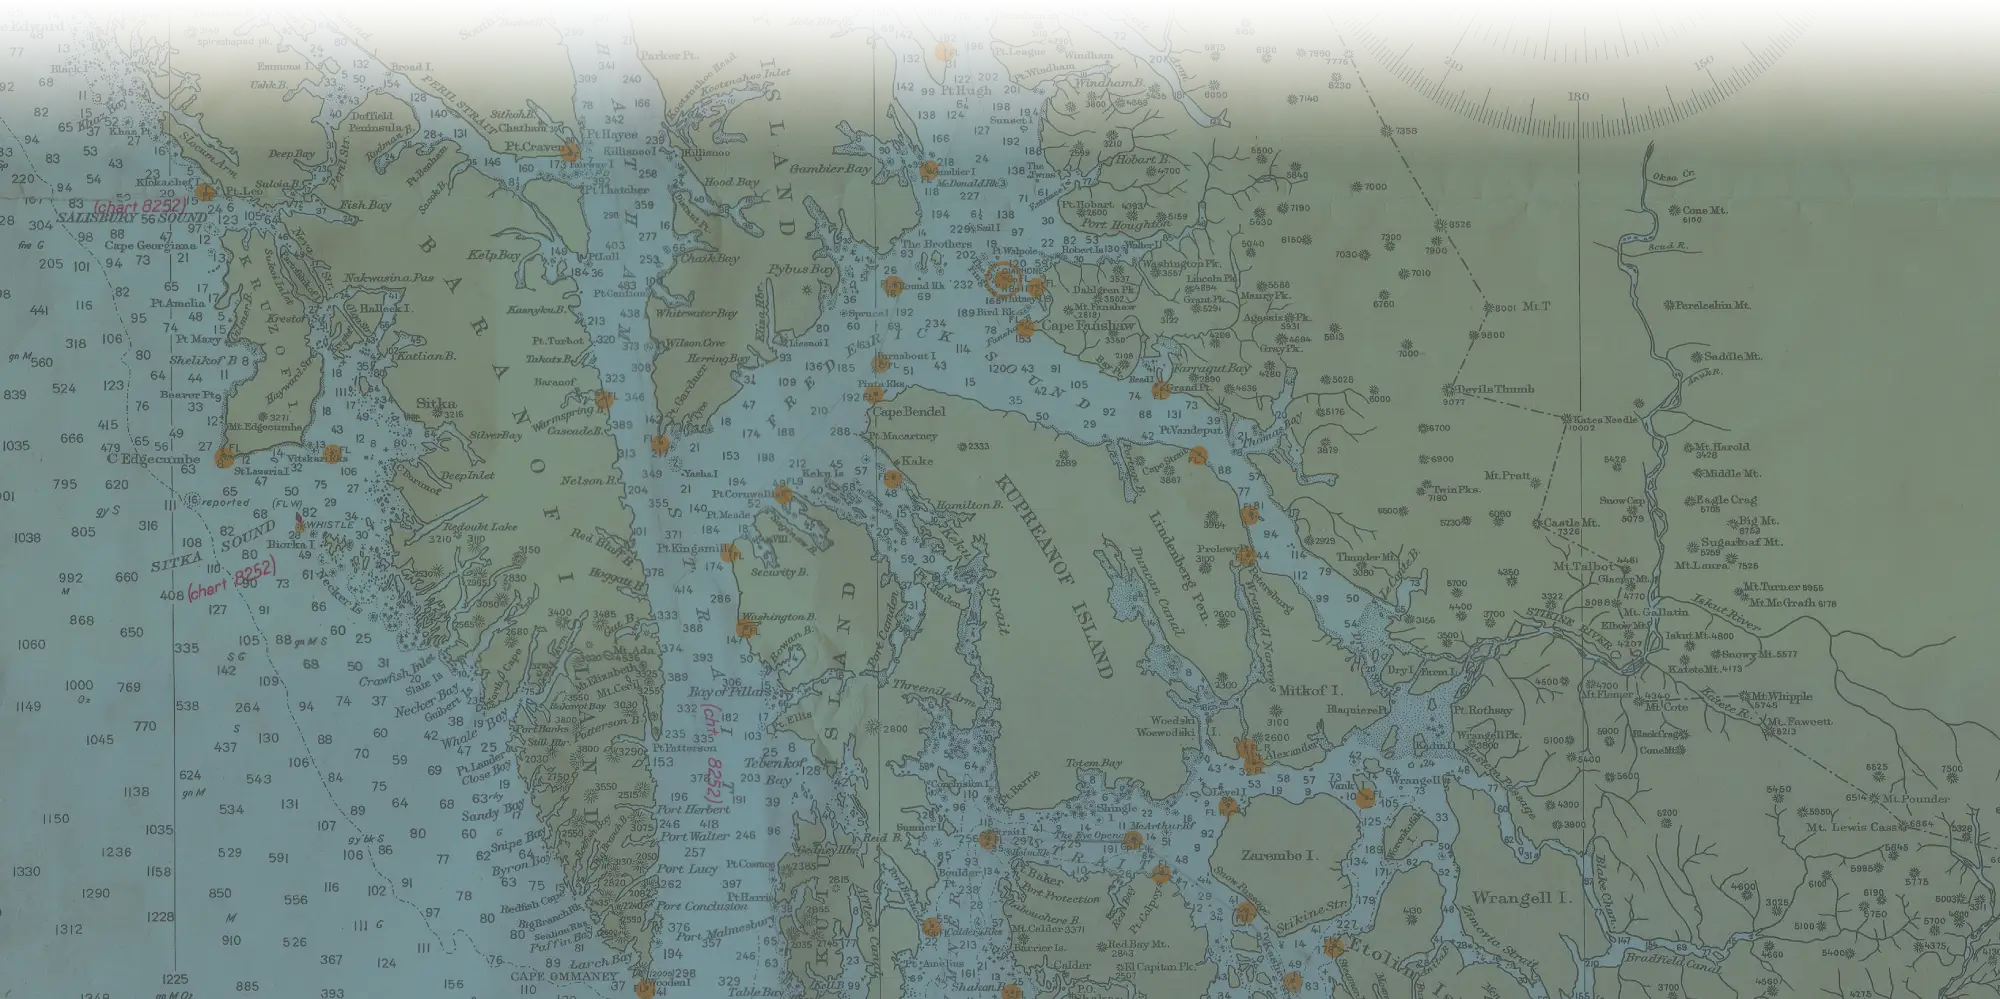
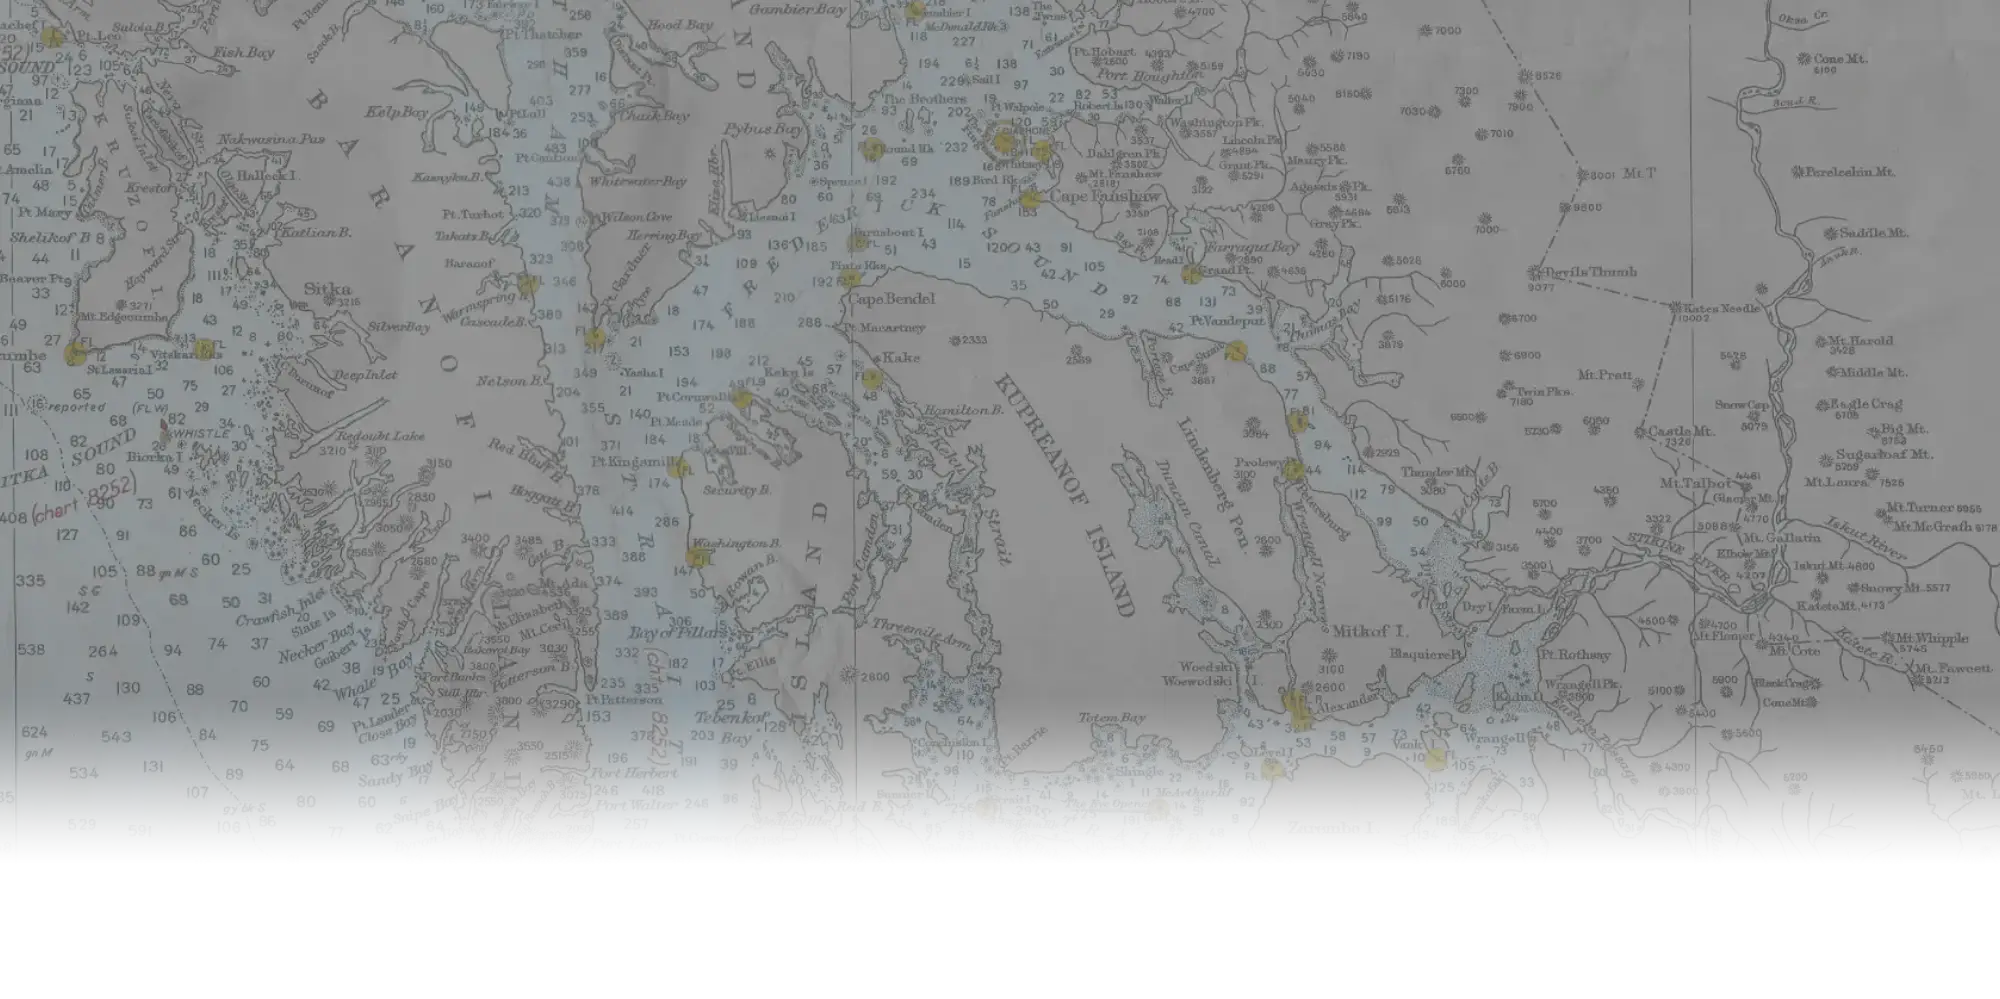
Marine links changes: background map, flags, audio, third slide

diff --git a/src/app/[locale]/marine_links/page.tsx b/src/app/[locale]/marine_links/page.tsx
@@ -50,49 +50,53 @@ export default function Page() {
 
   return (
     <main className='main select-none'>
-      <section className='links-section flex flex-col w-full place-items-center bg-[#AABCC5] bg-clip-border text-gray-700'>
-        <figure className='relative w-full m-0 overflow-hidden text-gray-700 bg-clip-border min-h-[400px] md:min-h-[500px] lg:min-h-[700px]'>
-          <div className='inset-0 bg-cover bg-center'>
+      <section className='links-section relative w-full min-h-[100vh] bg-[#AABCC5] bg-clip-border text-gray-700'>
+        <figure className='absolute inset-0 m-0 overflow-hidden text-gray-700 bg-clip-border'>
+          <div className='inset-0 bg-cover bg-center h-full w-full'>
             <div
-              className='background-image marine-image-1 '
+              className='background-image-3 marine-image-1 background-filter'
               style={{
                 backgroundPositionY: 'bottom',
                 backgroundPositionX: 'left',
               }}
             ></div>
             <div
-              className='background-image marine-image-2'
+              className='background-image-3 marine-image-2 background-filter'
+              style={{
+                backgroundPositionY: 'bottom',
+                backgroundPositionX: 'left',
+              }}
+            ></div>
+            <div
+              className='background-image-3 marine-image-3 background-filter'
               style={{
                 backgroundPositionY: 'bottom',
                 backgroundPositionX: 'left',
               }}
             ></div>
           </div>
-          <figcaption
-            data-aos='zoom-in'
-            data-aos-duration='700'
-            className='select-none absolute inset-0 flex items-center text-white px-4 md:px-12 w-full'
-          >
+          <div className='map-overlay'></div>
+        </figure>
+        <article className='relative z-10 w-full min-h-[100vh] flex flex-col items-center justify-start pt-24 md:pt-28 lg:pt-[20vh] pb-12'>
+          <header className='w-full flex flex-col items-center'>
             <h1
-              className='font-["PlayBold"] drop-shadow-[0_0_1rem_#A8C8EA] text-4xl sm:text-5xl lg:text-6xl 
-              font-normal text-center tracking-widest uppercase px-4 py-2 w-full'
+              data-aos='zoom-in'
+              data-aos-duration='700'
+              className='font-["PlayBold"] drop-shadow-[0_0_1rem_#A8C8EA] text-2xl md:text-2xl lg:text-4xl 
+              font-normal text-center tracking-widest uppercase px-4 py-2 w-full text-white'
             >
               {t('title')}
             </h1>
-          </figcaption>
-        </figure>
-        <article className='cover w-full'>
           <h2
             data-aos='zoom-in'
             data-aos-duration='700'
-            data-aos-delay='700'
-            className='text-white block antialiased font-semibold leading-snug tracking-normal 
-            font-["PlayBold"] tracking-wide mt-0 pt-32 mb-12 text-2xl lg:text-3xl lg:text-6xl text-center capitalize'
+            className='uppercase font-normal text-white text-sm md:text-base lg:text-2xl w-3/4 md:w-1/2 text-center m-auto select-none pointer-events-none'
             style={{ whiteSpace: 'pre-line' }}
           >
             {t('noticesToMariners')}
           </h2>
-          <div className='place-items-top flex justify-center flex-col px-16 md:p-2 xl:p-5 lg:flex-row'>
+          </header>
+          <div className='place-items-top flex justify-center flex-col px-16 md:p-2 xl:p-5 lg:flex-row mt-0'>
             {links.map(({ img, videos, links }, i) => (
               <div
                 key={i}
@@ -109,9 +113,9 @@ export default function Page() {
                     loop
                     playsInline
                     controls={false}
-                    width='300'
+                    width='165'
                     height='auto'
-                    className='border rounded-3xl shadow-2xl w-[200px] sm:w-[250px] md:w-[300px] h-auto'
+                    className='border rounded-3xl shadow-2xl w-[110px] sm:w-[140px] md:w-[165px] h-auto'
                     poster={img}
                   >
                     {videos.map(({ path, type }, id) => (
@@ -120,7 +124,7 @@ export default function Page() {
                   </video>
                 </div>
                 <div className='px-4'>
-                  <ul className='mt-8 list-none pl-0 text-l md:text-xl lg:text-2xl'>
+                  <ul className='mt-4 list-none pl-0 text-l md:text-xl lg:text-2xl'>
                     {links.map(({ link, title }, key) => (
                       <li
                         key={key}

diff --git a/src/app/[locale]/marine_links/page.css b/src/app/[locale]/marine_links/page.css
@@ -1,7 +1,3 @@
-:root {
-    --wave-gap: -145px;
-}
-
 .marine-image-1 {
     background-image: -webkit-image-set(url('/images/marine-links/1.webp') type('image/webp'),
             url('/images/marine-links/1.jpg') type('image/jpeg'));
@@ -16,16 +12,19 @@
             url('/images/marine-links/1.jpg') type('image/jpeg'));
 }
 
-.cover {
-    position: relative;
-    top: var(--wave-gap);
-    background: url('/images/marine-links/map.webp');
-    background-size: cover;
-    z-index: 1000;
-    padding-top: 7em;
-    padding-bottom: 7em;
+.marine-image-3 {
+    background-image: -webkit-image-set(url('/images/marine-links/3.webp') type('image/webp'),
+            url('/images/marine-links/3.jpg') type('image/jpeg'));
+    background-image: image-set(url('/images/marine-links/3.webp') type('image/webp'),
+            url('/images/marine-links/3.jpg') type('image/jpeg'));
 }
 
-.links-section {
-    margin-bottom: var(--wave-gap);
+.map-overlay {
+    position: absolute;
+    inset: 0;
+    background: url('/images/marine-links/map.webp');
+    background-size: 100% 59%;
+    background-position: center -20%;
+    background-repeat: no-repeat;
+    pointer-events: none;
 }

diff --git a/src/app/[locale]/layout.tsx b/src/app/[locale]/layout.tsx
@@ -8,6 +8,7 @@ import { getTranslations } from 'next-intl/server';
 import Footer from '../components/footer/footer';
 import HeaderSection from '../components/header-section/header-section';
 import LibsLoader from '../components/libs-loader/libs-loader';
+import DesktopAutoplayAudio from '../components/audio/audio';
 
 const inter = Inter({ subsets: ['latin'] });
 
@@ -128,6 +129,7 @@ export default function RootLayout({
         <LibsLoader />
         <HeaderSection />
         {children}
+        <DesktopAutoplayAudio src="/audio/welcome.mp3" loop volume={0.5} />
         <Footer />
       </body>
     </html>

diff --git a/src/app/[locale]/page.tsx b/src/app/[locale]/page.tsx
@@ -1,5 +1,4 @@
 import AboutSection from '../components/about-us-section/about-us.section';
-import DesktopAutoplayAudio from '../components/audio/audio';
 import GoBack from '../components/go-back-btn/go-back-btn';
 import MissionSection from '../components/mission/mission.section';
 import ServicesSection from '../components/services/services.section';
@@ -17,7 +16,6 @@ export default function Page() {
       <ServicesSection />
       <SurveysSection />
       <GoBack />
-      <DesktopAutoplayAudio src="/audio/welcome.mp3" loop volume={0.5} />
     </main>
   );
 }

diff --git a/src/app/components/audio/audio.tsx b/src/app/components/audio/audio.tsx
@@ -128,7 +128,7 @@ export default function DesktopAutoplayAudio({ src, loop = true, volume = 1 }: P
             onKeyDown={(e) => { e.stopPropagation(); }}
             onTouchStart={(e) => { e.stopPropagation(); }}
             className={`
-                        z-100
+                        z-[9999]
                         fixed bottom-8 left-8 md:bottom-12 md:left-12
                         bg-cyan-800 hover:bg-cyan-950 text-white font-bold
                         py-2 px-2 rounded-full opacity-75 hover:opacity-90 transition-opacity border-none

diff --git a/src/app/ui/globals.css b/src/app/ui/globals.css
@@ -149,6 +149,8 @@ body {
 
 .background-image-3:nth-child(1) {
 	animation-delay: 0s;
+	opacity: 1;
+	animation: none;
 }
 
 .background-image-3:nth-child(2) {
